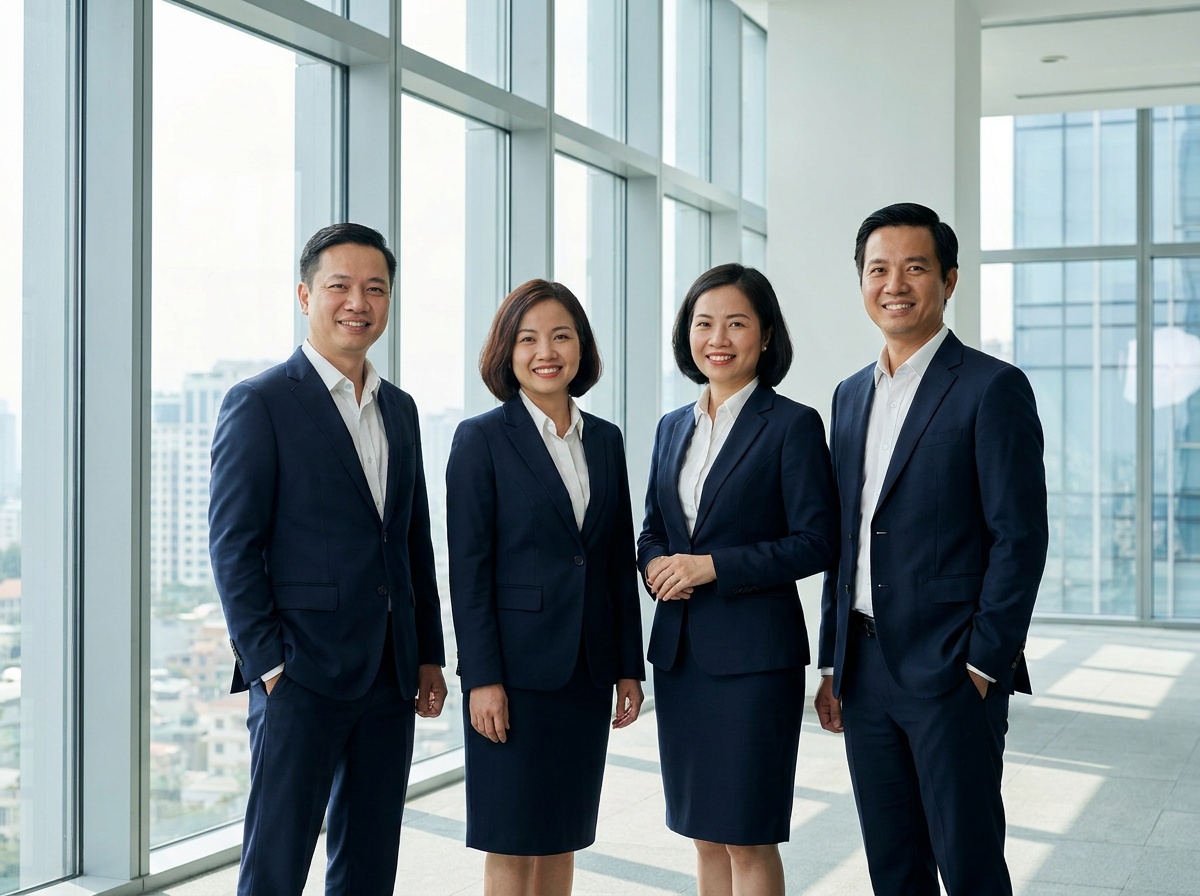
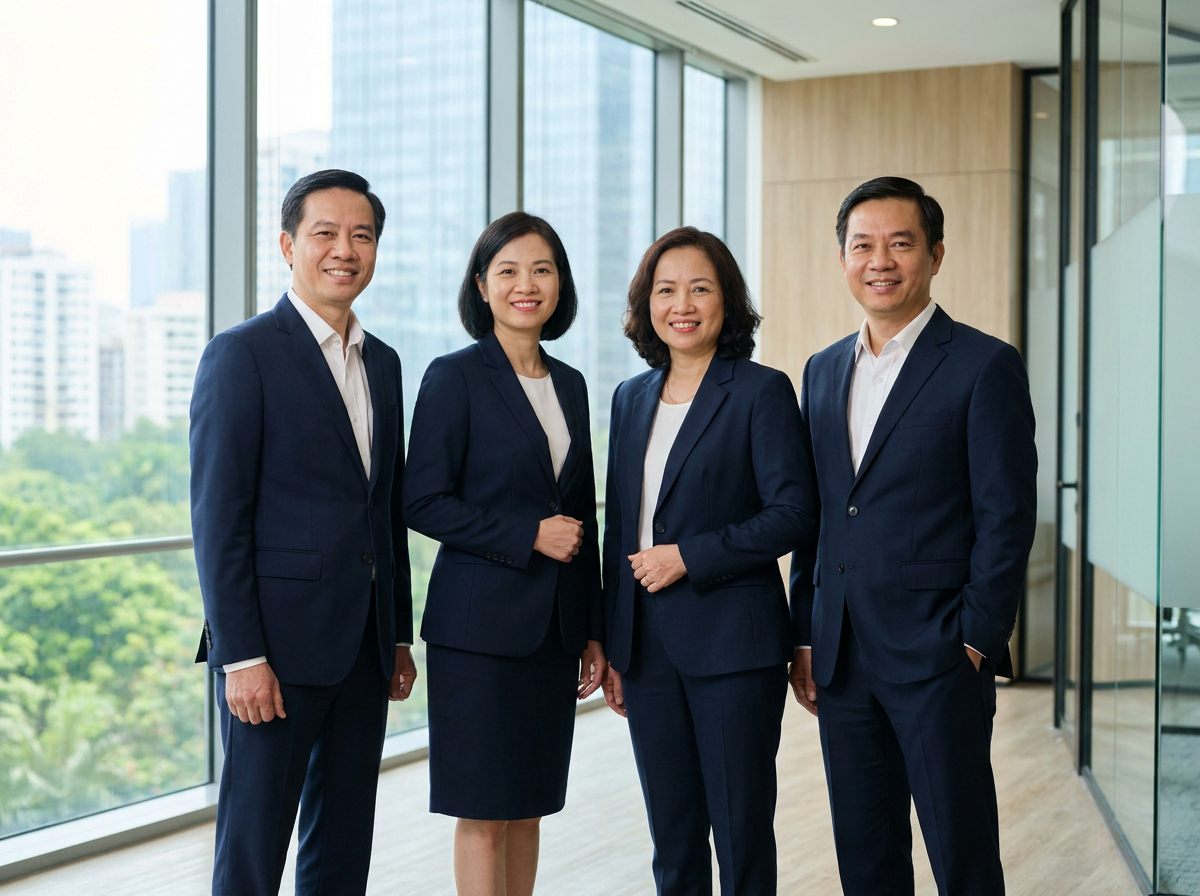
Fix broken homepage image paths and update leadership asset.
Correct Nunjucks image URLs that rendered as NaN and replace the oversized leadership photo with an optimized version.

diff --git a/scripts/fix_home_urls.py b/scripts/fix_home_urls.py
@@ -11,14 +11,14 @@ def href_repl(m):
     if href.startswith(("http", "#", "{{", "mailto:", "tel:")):
         return m.group(0)
     if href.startswith("/"):
-        return f'href="{{{{ \'{href}\' | url }}}}"'
+        return f"href=\"{{{{ '{href}' | url }}}}\""
     return m.group(0)
 
 
 t = re.sub(r'href="([^"]+)"', href_repl, t)
 t = re.sub(
     r'src="assets/img/([^"]+)"',
-    r'src="{{ \'/assets/img/\1\' | url }}"',
+    'src="{{ \'/assets/img/\\1\' | url }}"',
     t,
 )
 p.write_text(t, encoding="utf-8")